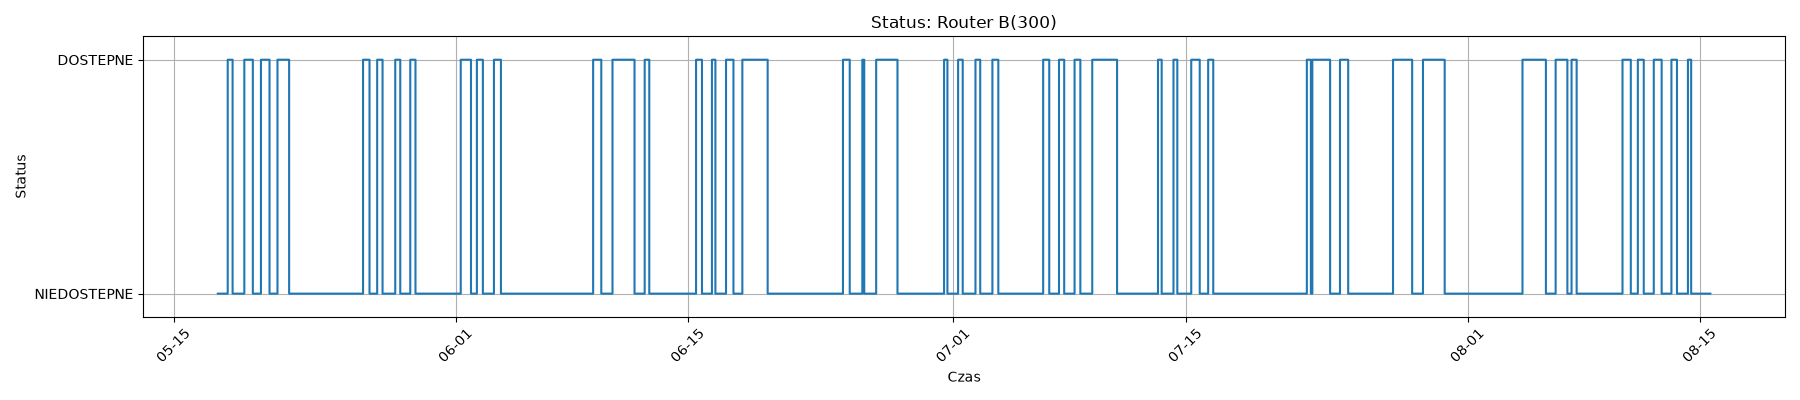
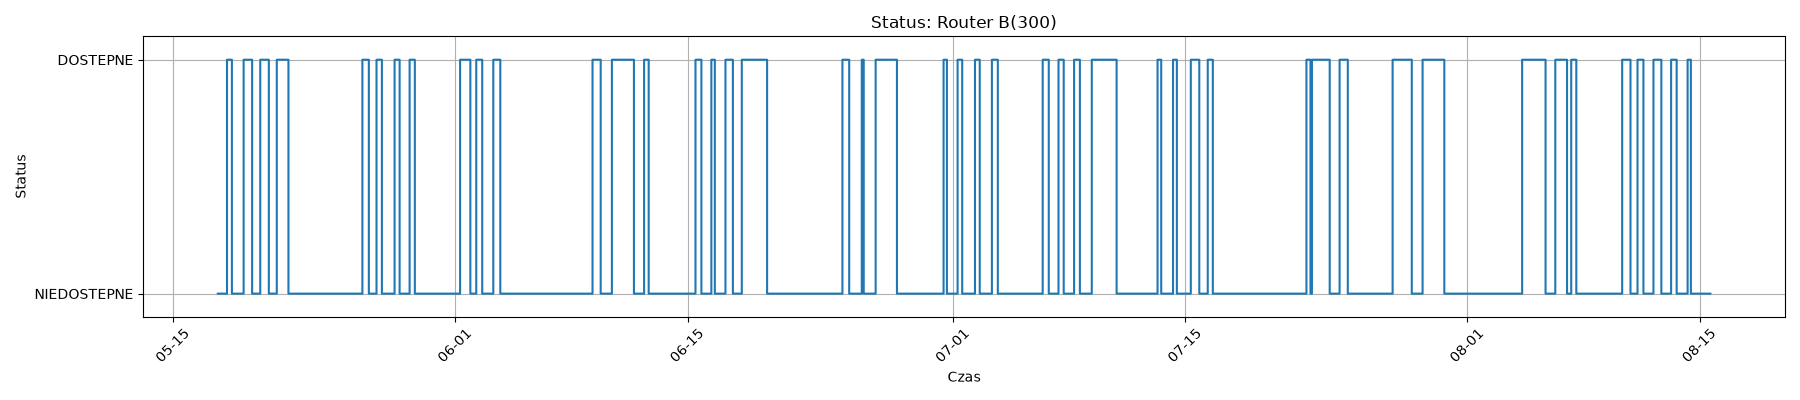
Automatyczna aktualizacja monitoringu

diff --git a/index.html b/index.html
@@ -33,5 +33,5 @@ img { border: 1px solid #ccc; border-radius: 8px; }
                 <div>Router B(300)</div>
                 <img src="chart_Router B(300).png" alt="Router B(300)" style="max-width:600px; margin-top:10px;">
             </div>
-            <p>Ostatnia zmiana: 2026-08-15 15:06:57</p>
+            <p>Ostatnia zmiana: 2026-08-15 15:32:55</p>
 </body></html>
